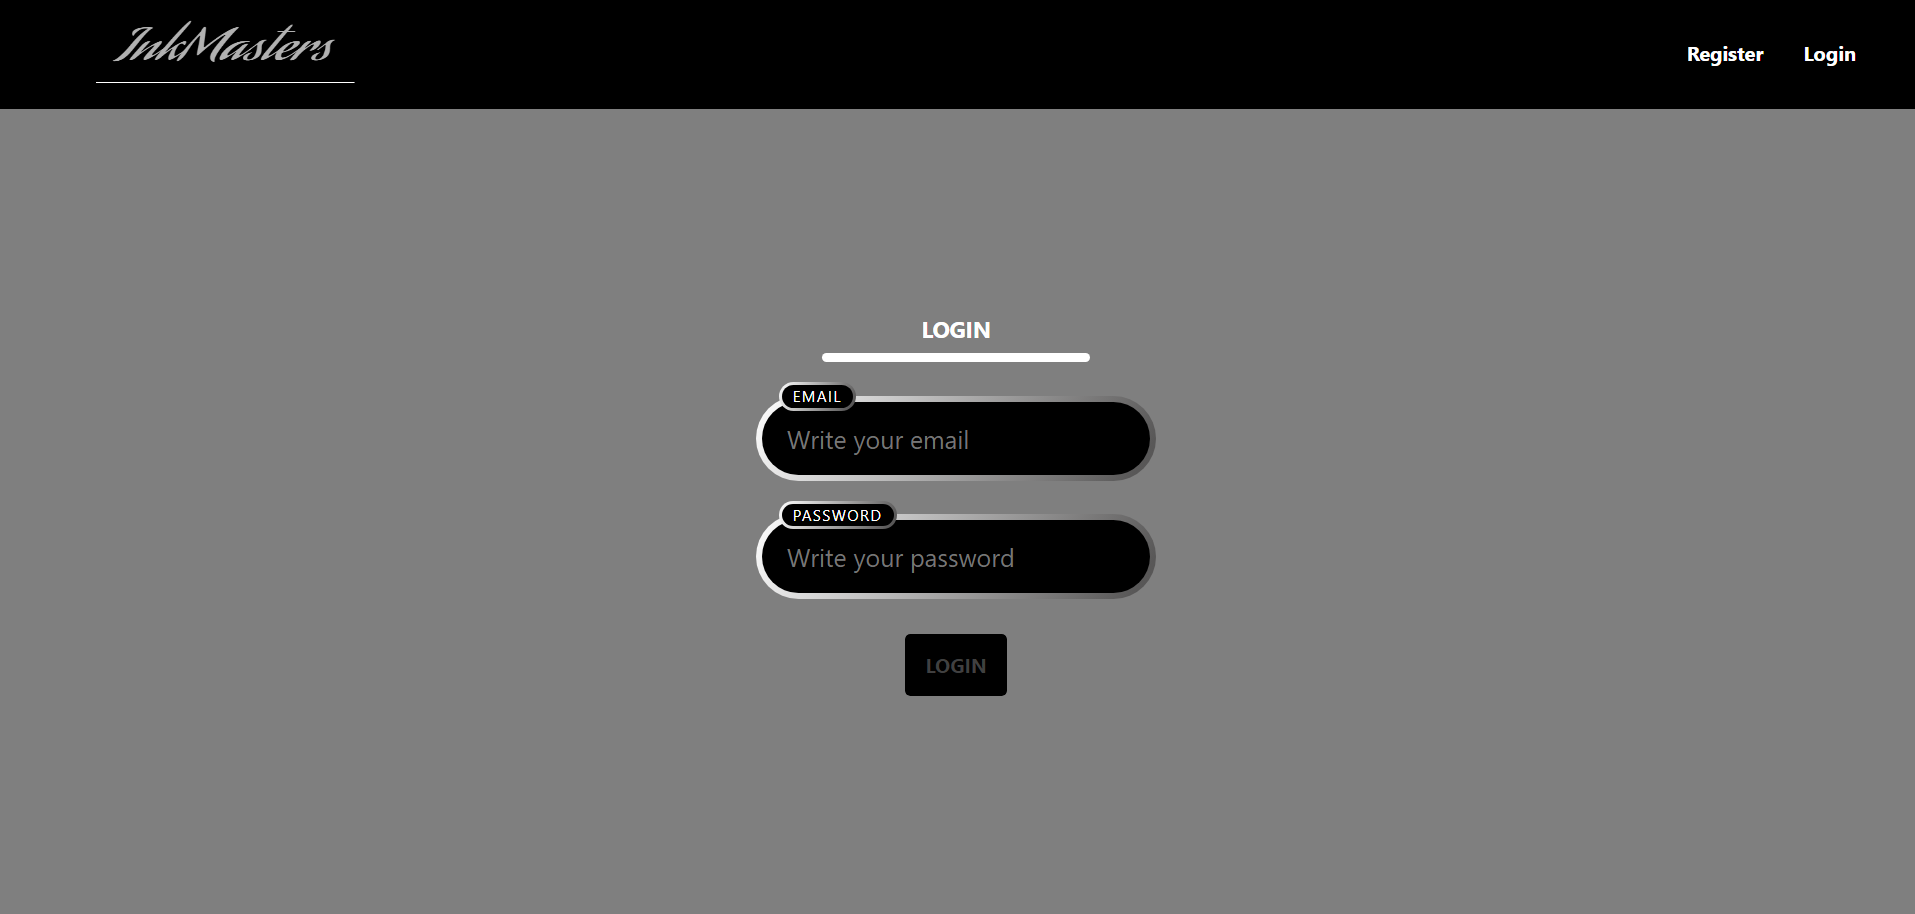
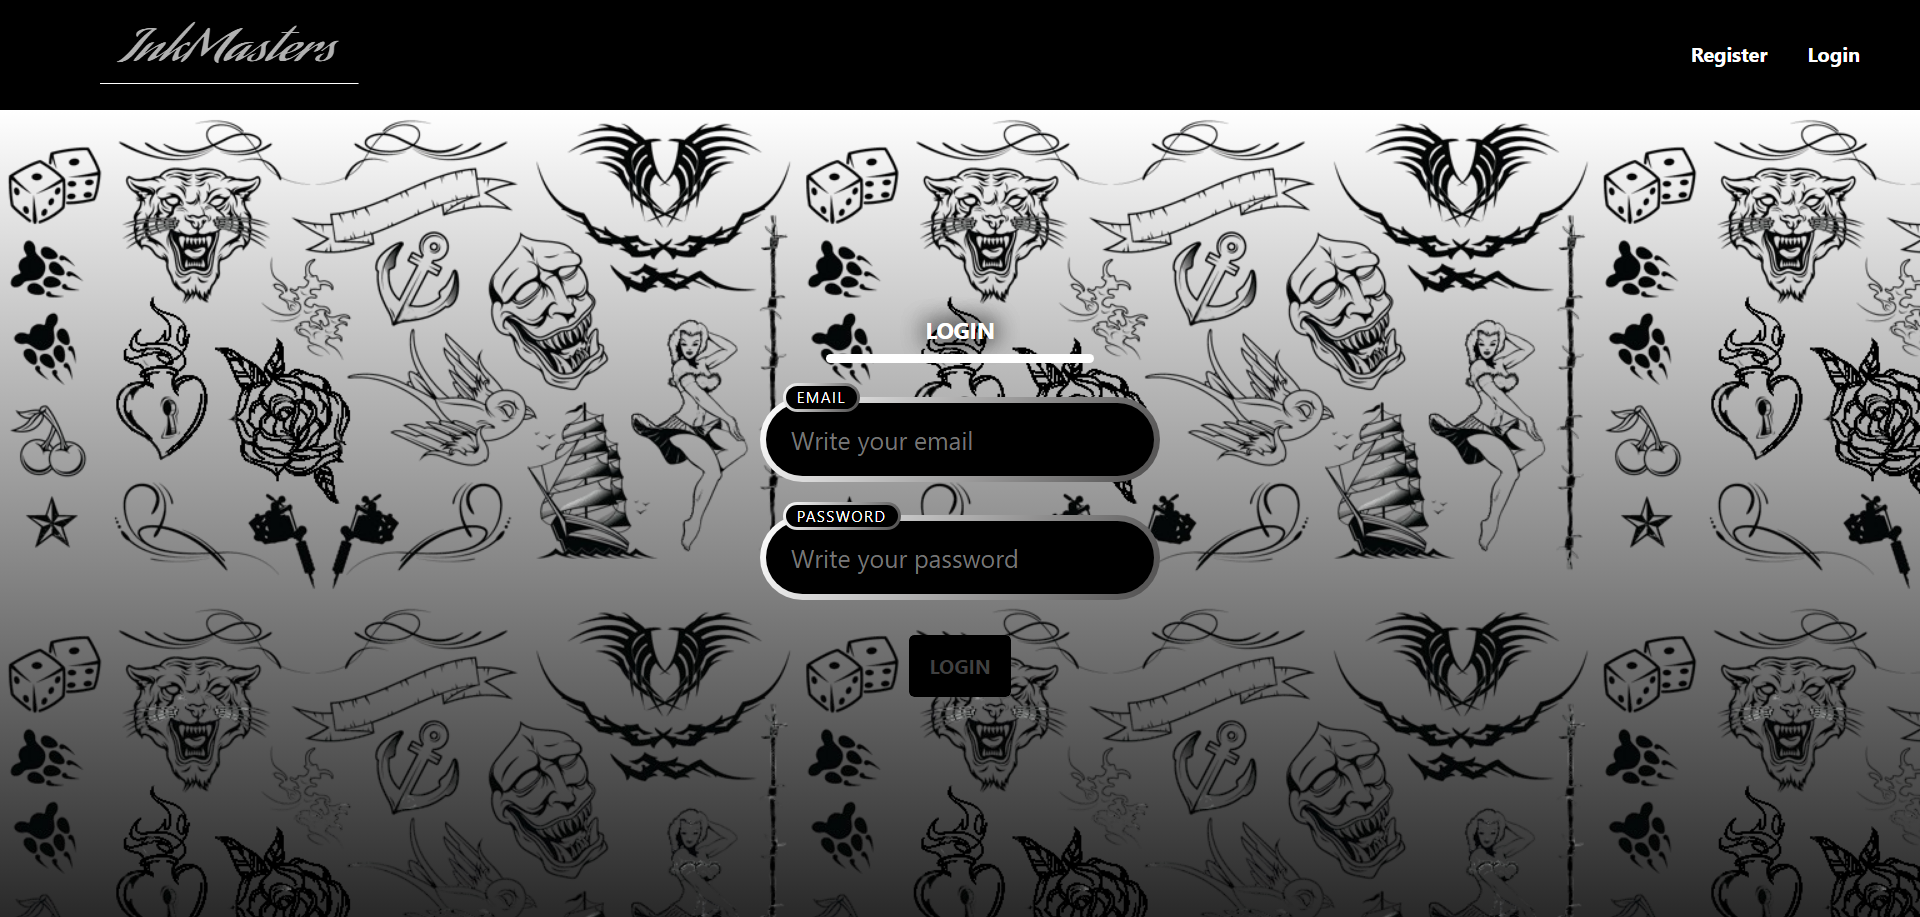
Update: App => Adding background to all views, updating README and checking correct workflow

diff --git a/src/pages/Home/Home.jsx b/src/pages/Home/Home.jsx
@@ -4,6 +4,7 @@ import { useState, useEffect } from "react";
 import { Header } from "../../common/Header/Header";
 import { GetServices } from "../../services/apiCalls";
 import Carousel from 'react-bootstrap/Carousel';
+import { LoadingIcon } from "../../common/LoadingIcon/LoadingIcon";
 
 export const Home = () => {
     const [services, setServices] = useState([])
@@ -37,7 +38,9 @@ export const Home = () => {
                 </div>
                 <div className="homeServices">
                         {!loadedData ? (
-                            <div>CARGANDO</div>
+                            <div>
+                                <LoadingIcon/>
+                            </div>
                         ) : (
                             <Carousel>
                                 {services.map((item) => {

diff --git a/src/pages/AdminEstablishments/AdminEstablishments.css b/src/pages/AdminEstablishments/AdminEstablishments.css
@@ -12,7 +12,8 @@
     height: 88vh;
     width: 100vw;
 
-    background-color: #7f7f7f;
+    background-image: url("../../assets/vector_tattoos.png"),
+    linear-gradient(0deg, rgba(40,40,40,1) 0%, rgba(255,255,255,1) 100%);
 
     display: flex;
     flex-direction: column;
@@ -71,8 +72,6 @@
 .establishmentsContent{
     height: 78vh;
     width: 100vw;
-
-    background-color: #7f7f7f;
 
     display: flex;
     flex-direction: column;

diff --git a/src/pages/AdminServices/AdminServices.css b/src/pages/AdminServices/AdminServices.css
@@ -12,7 +12,8 @@
     height: 88vh;
     width: 100vw;
 
-    background-color: #7f7f7f;
+    background-image: url("../../assets/vector_tattoos.png"),
+    linear-gradient(0deg, rgba(40,40,40,1) 0%, rgba(255,255,255,1) 100%);
 
     display: flex;
     flex-direction: column;
@@ -71,8 +72,6 @@
 .servicesContent{
     height: 78vh;
     width: 100vw;
-
-    background-color: #7f7f7f;
 
     display: flex;
     flex-direction: column;

diff --git a/src/pages/AdminRoles/AdminRoles.css b/src/pages/AdminRoles/AdminRoles.css
@@ -12,7 +12,8 @@
     height: 88vh;
     width: 100vw;
 
-    background-color: #7f7f7f;
+    background-image: url("../../assets/vector_tattoos.png"),
+    linear-gradient(0deg, rgba(40,40,40,1) 0%, rgba(255,255,255,1) 100%);
 
     display: flex;
     flex-direction: column;
@@ -71,8 +72,6 @@
 .rolesContent{
     height: 78vh;
     width: 100vw;
-
-    background-color: #7f7f7f;
 
     display: flex;
     flex-direction: column;

diff --git a/src/pages/AdminUsers/AdminUsers.css b/src/pages/AdminUsers/AdminUsers.css
@@ -12,7 +12,8 @@
     height: 88vh;
     width: 100vw;
 
-    background-color: #7f7f7f;
+    background-image: url("../../assets/vector_tattoos.png"),
+    linear-gradient(0deg, rgba(40,40,40,1) 0%, rgba(255,255,255,1) 100%);
 
     display: flex;
     flex-direction: column;
@@ -71,8 +72,6 @@
 .usersContent{
     height: 78vh;
     width: 100vw;
-
-    background-color: #7f7f7f;
 
     display: flex;
     flex-direction: column;

diff --git a/src/pages/Login/Login.css b/src/pages/Login/Login.css
@@ -18,6 +18,7 @@
 
 .headerText{
     color:#fff;
+    text-shadow: 0 0 20px #000, 0 0 20px #000;
     font-size: large;
     font-weight: 700;
     user-select: none;
@@ -30,6 +31,7 @@
 
 .headerLine{
     background:#fff;
+    text-shadow: 0 0 20px #000, 0 0 20px #000;
     user-select: none;
     width: 14vw;
     height: 1vh;

diff --git a/src/pages/Register/Register.css b/src/pages/Register/Register.css
@@ -18,6 +18,7 @@
 
 .headerText{
     color:#fff;
+    text-shadow: 0 0 20px #000, 0 0 20px #000;
     font-size: large;
     font-weight: 700;
     width: 10vw;
@@ -29,6 +30,7 @@
 
 .headerLine{
     background:#fff;
+    text-shadow: 0 0 20px #000, 0 0 20px #000;
     width: 14vw;
     height: 1vh;
     border-radius: 0.5em;

diff --git a/src/pages/AdminPanel/AdminPanel.css b/src/pages/AdminPanel/AdminPanel.css
@@ -2,7 +2,8 @@
     height: 88vh;
     width: 100vw;
 
-    background-color: #7f7f7f;
+    background-image: url("../../assets/vector_tattoos.png"),
+    linear-gradient(0deg, rgba(40,40,40,1) 0%, rgba(255,255,255,1) 100%);
 
     display: flex;
     flex-direction: column;

diff --git a/src/pages/Home/Home.css b/src/pages/Home/Home.css
@@ -23,6 +23,9 @@
 
 .homeHeader, .homeSubHeader{
     color:#fff;
+    text-shadow: 0 0 3px #000, 0 0 5px #000;
+    background-color: #1d1d1d6d;
+    width: 50vw;
     font-size: large;
     user-select: none;
     height: fit-content;
